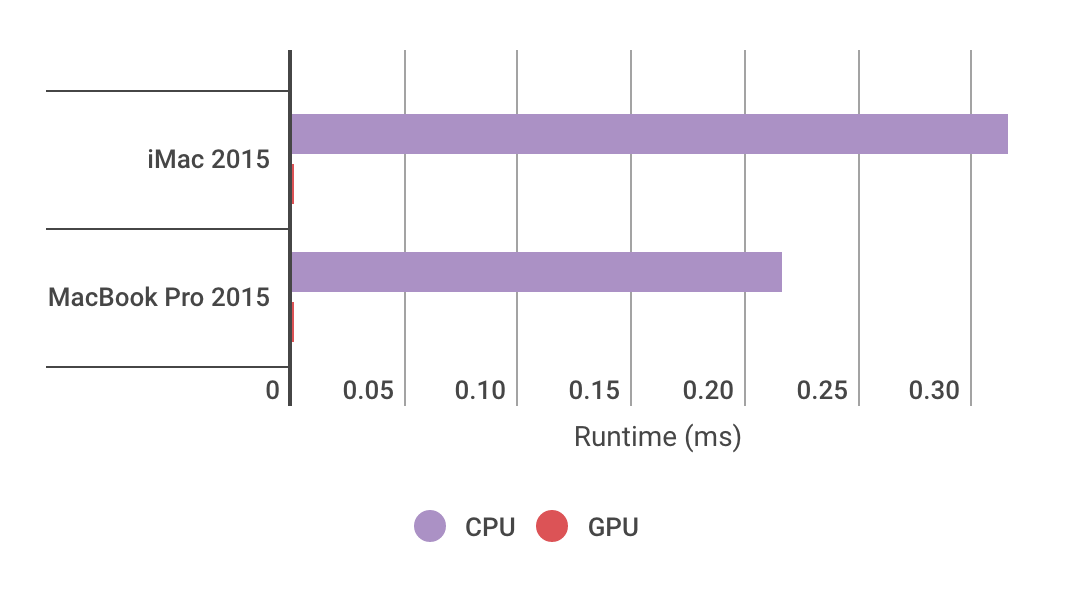
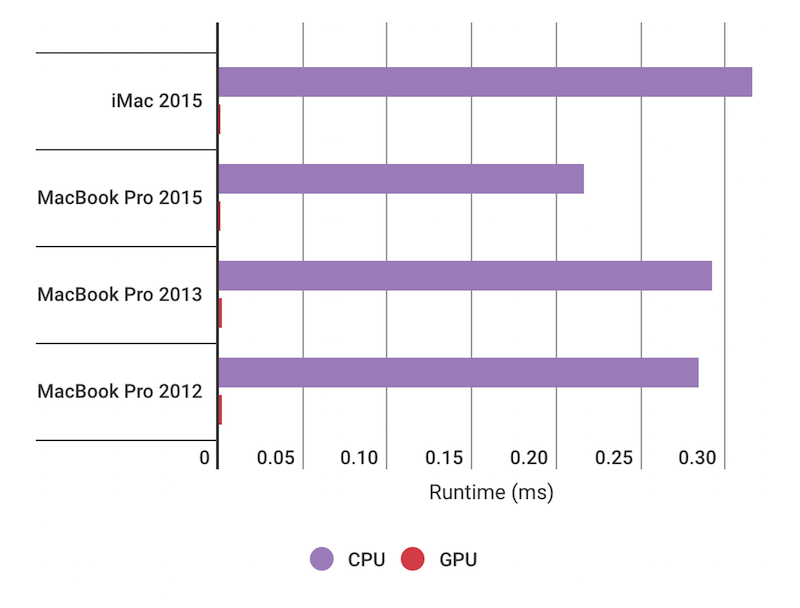
:pencil: Update benchmark

diff --git a/README.md b/README.md
@@ -61,4 +61,36 @@ CPU: 0.216143ms
 GPU: 0.000545ms
 ```
 
+### MacBook Pro Late 2013
+
+On MacBook Pro Late 2013:
+
+```
+CPU: 2.4 GHz Intel Core i5
+GPU: 1536 Intel Iris
+```
+
+Runtime result:
+
+```
+CPU: 0.291636ms
+GPU: 0.001999ms
+```
+
+### MacBook Pro Mid 2012
+
+On MacBook Pro Mid 2012:
+
+```
+CPU: 2.5 GHz Intel Core i5
+GPU: 1536 MB Intel HD Graphics 4000
+```
+
+Runtime result:
+
+```
+CPU: 0.284128ms
+GPU: 0.001589ms
+```
+
 ![](compare.png)
